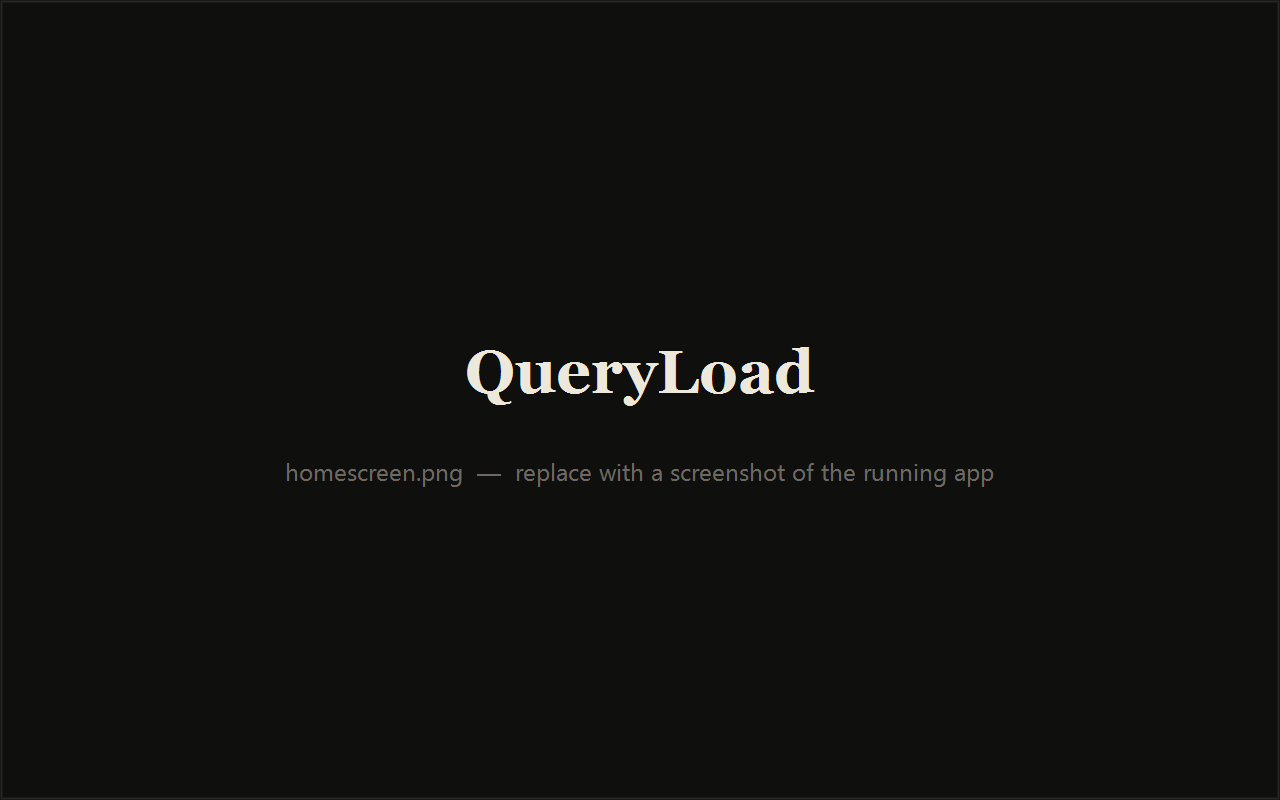
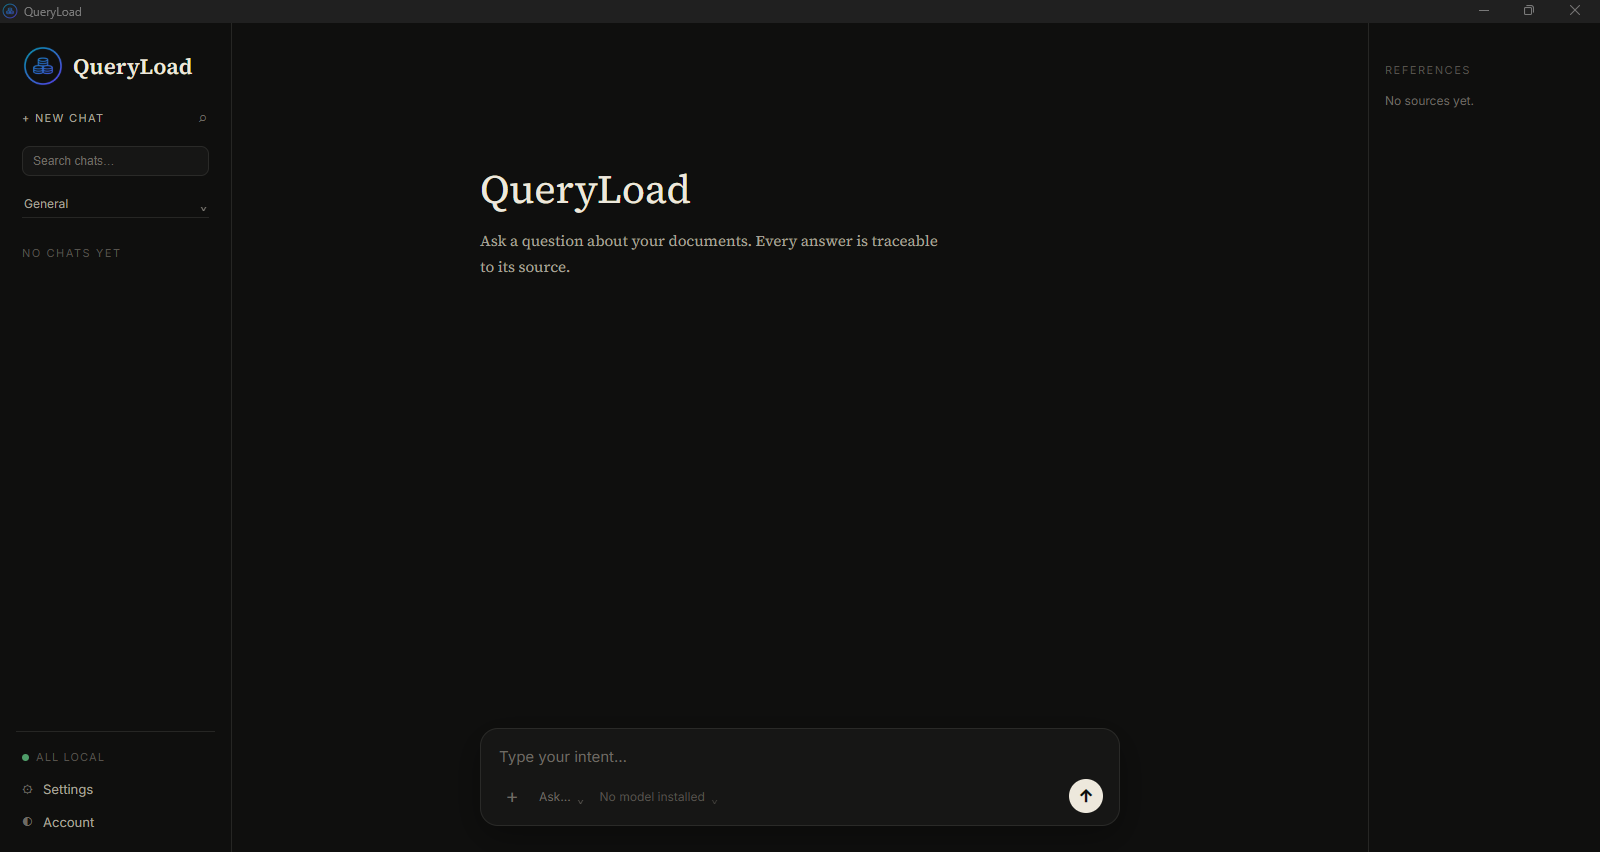
docs: wire in the real screenshot and video poster
Two problems with the uploaded assets, both invisible on Windows:

1. The screenshot landed as Homescreen.png while the README referenced
   homescreen.png, and my placeholder was still sitting at the lowercase name.
   GitHub paths are case-sensitive, so the page was rendering the placeholder
   while the real capture sat beside it unused. A case-insensitive local
   filesystem shows these as one file, which is why it did not surface locally.
   Resolved to a single lowercase homescreen.png holding the real capture.

2. queryload.png was a JPEG, not a PNG — magic bytes ff d8 ff. Browsers sniff
   content so it would have rendered, but the extension misleads anything that
   trusts it. Re-encoding to real PNG tripled the size (271KB -> 861KB) for no
   visual gain, so the file keeps its JPEG data and is renamed queryload.jpg,
   with the README updated to match.

Assets README now records the actual formats and warns about both traps.

diff --git a/.github/assets/README.md b/.github/assets/README.md
@@ -1,13 +1,20 @@
 # Repository assets
 
-Images referenced by the root `README.md`. The two PNGs currently in this folder
-are **placeholders** — replace them with real captures, keeping the same
-filenames so the README needs no edit.
+Images referenced by the root `README.md`.
 
-| File | Used for | Recommended size |
+| File | Used for | Current |
 |---|---|---|
-| `homescreen.png` | The "Interface" section — the app in use | 1280 × 800 (16:10), or any 16:10 capture of the window |
-| `queryload.png` | Clickable poster for the demo video | 1280 × 720 (16:9) |
+| `homescreen.png` | The "Interface" section — the app in use | 1600 × 852 PNG |
+| `queryload.jpg` | Clickable poster for the demo video | 1920 × 1080 JPEG |
+
+**Filenames are case-sensitive on GitHub.** `Homescreen.png` and
+`homescreen.png` are two different files there, even though Windows treats them
+as one locally — so a capitalised upload silently leaves the README pointing at
+nothing. Keep these names exactly as written when replacing them.
+
+Match the extension to the actual file format too. A JPEG named `.png` usually
+still renders, because browsers sniff the content, but it misleads any tool that
+trusts the extension.
 
 ## homescreen.png
 

diff --git a/README.md b/README.md
@@ -55,7 +55,7 @@ documents, conversations and the audit log.
 
 <p align="center">
   <a href="https://ememndon.com/videos/queryload.mp4">
-    <img src=".github/assets/queryload.png" width="720" alt="Watch the QueryLoad demo video">
+    <img src=".github/assets/queryload.jpg" width="720" alt="Watch the QueryLoad demo video">
   </a>
 </p>
 